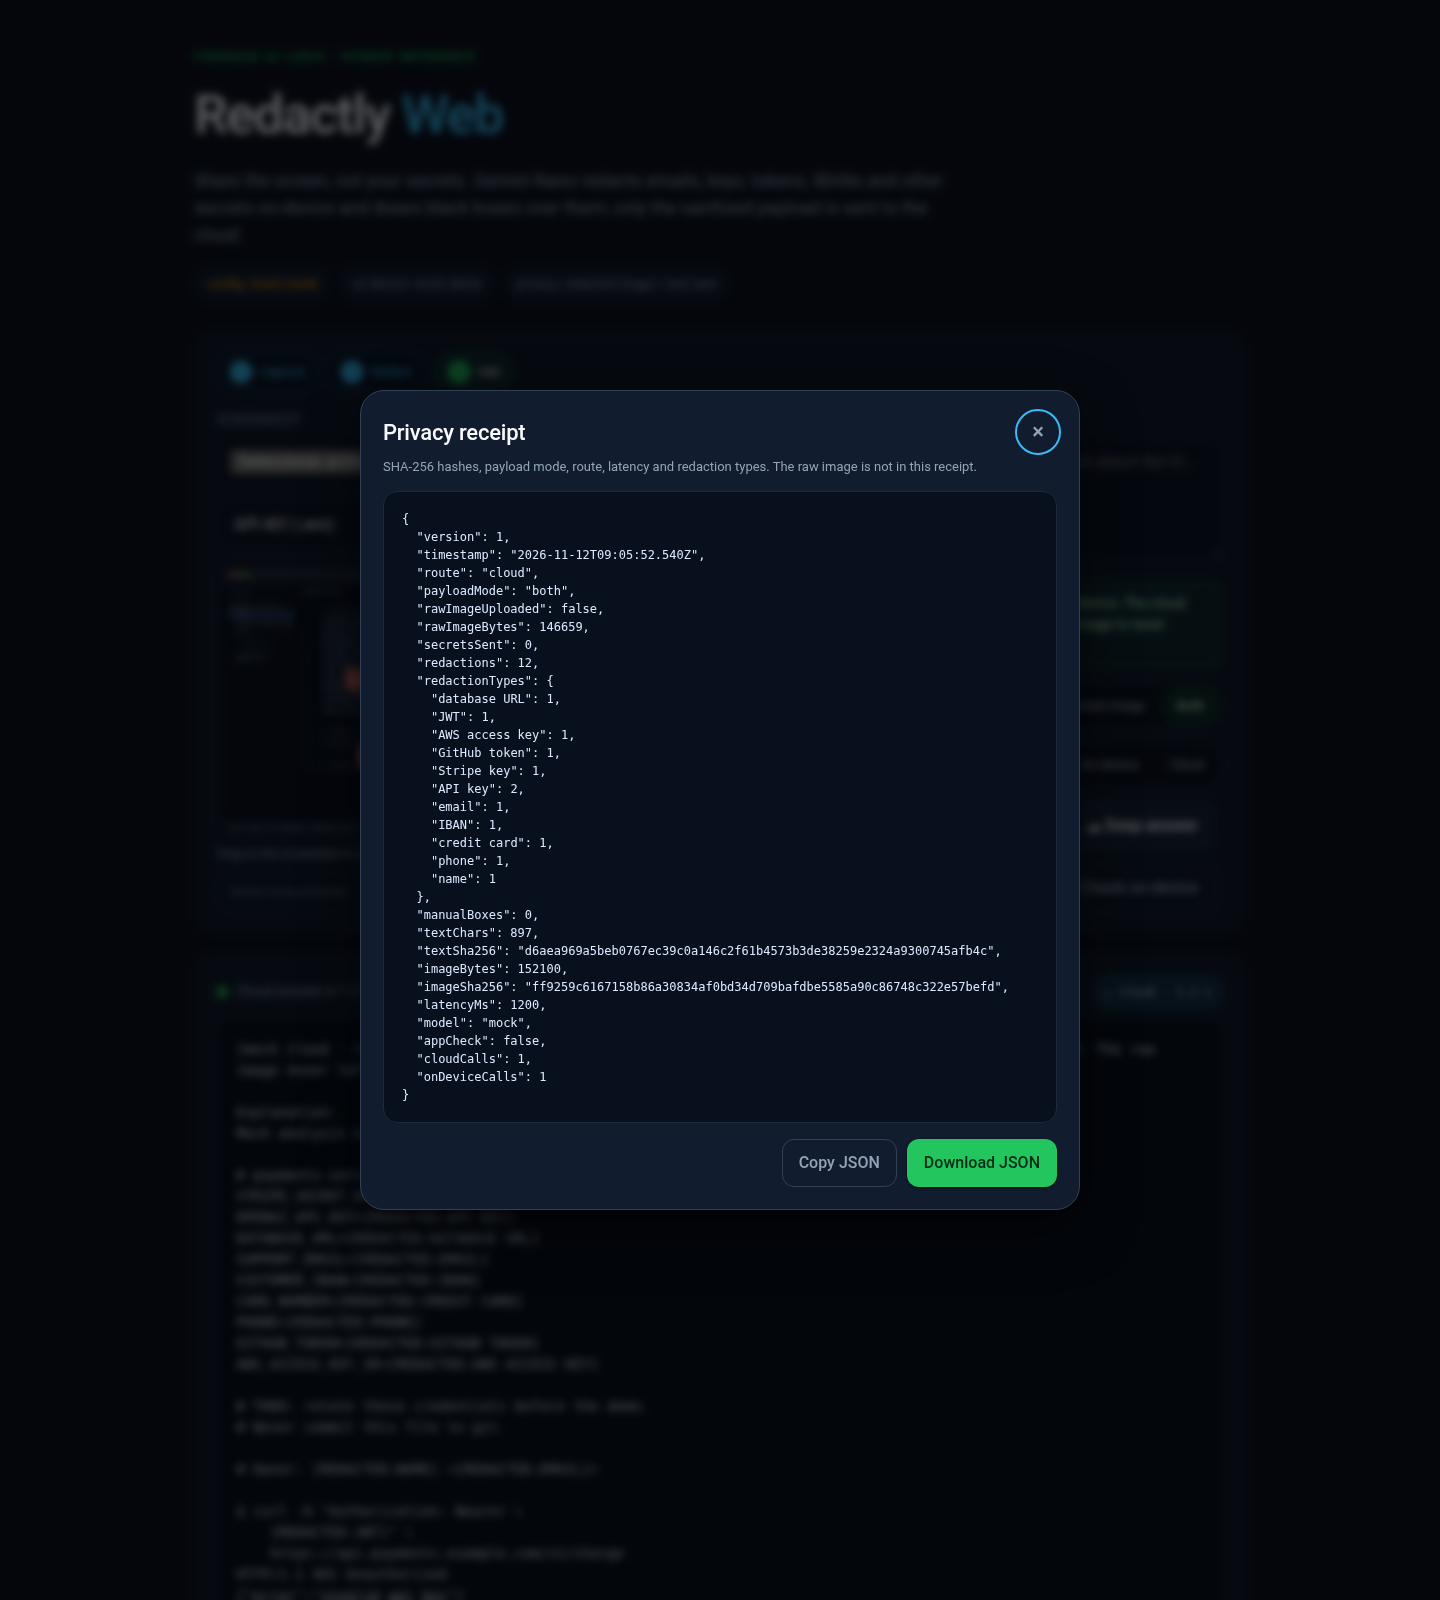
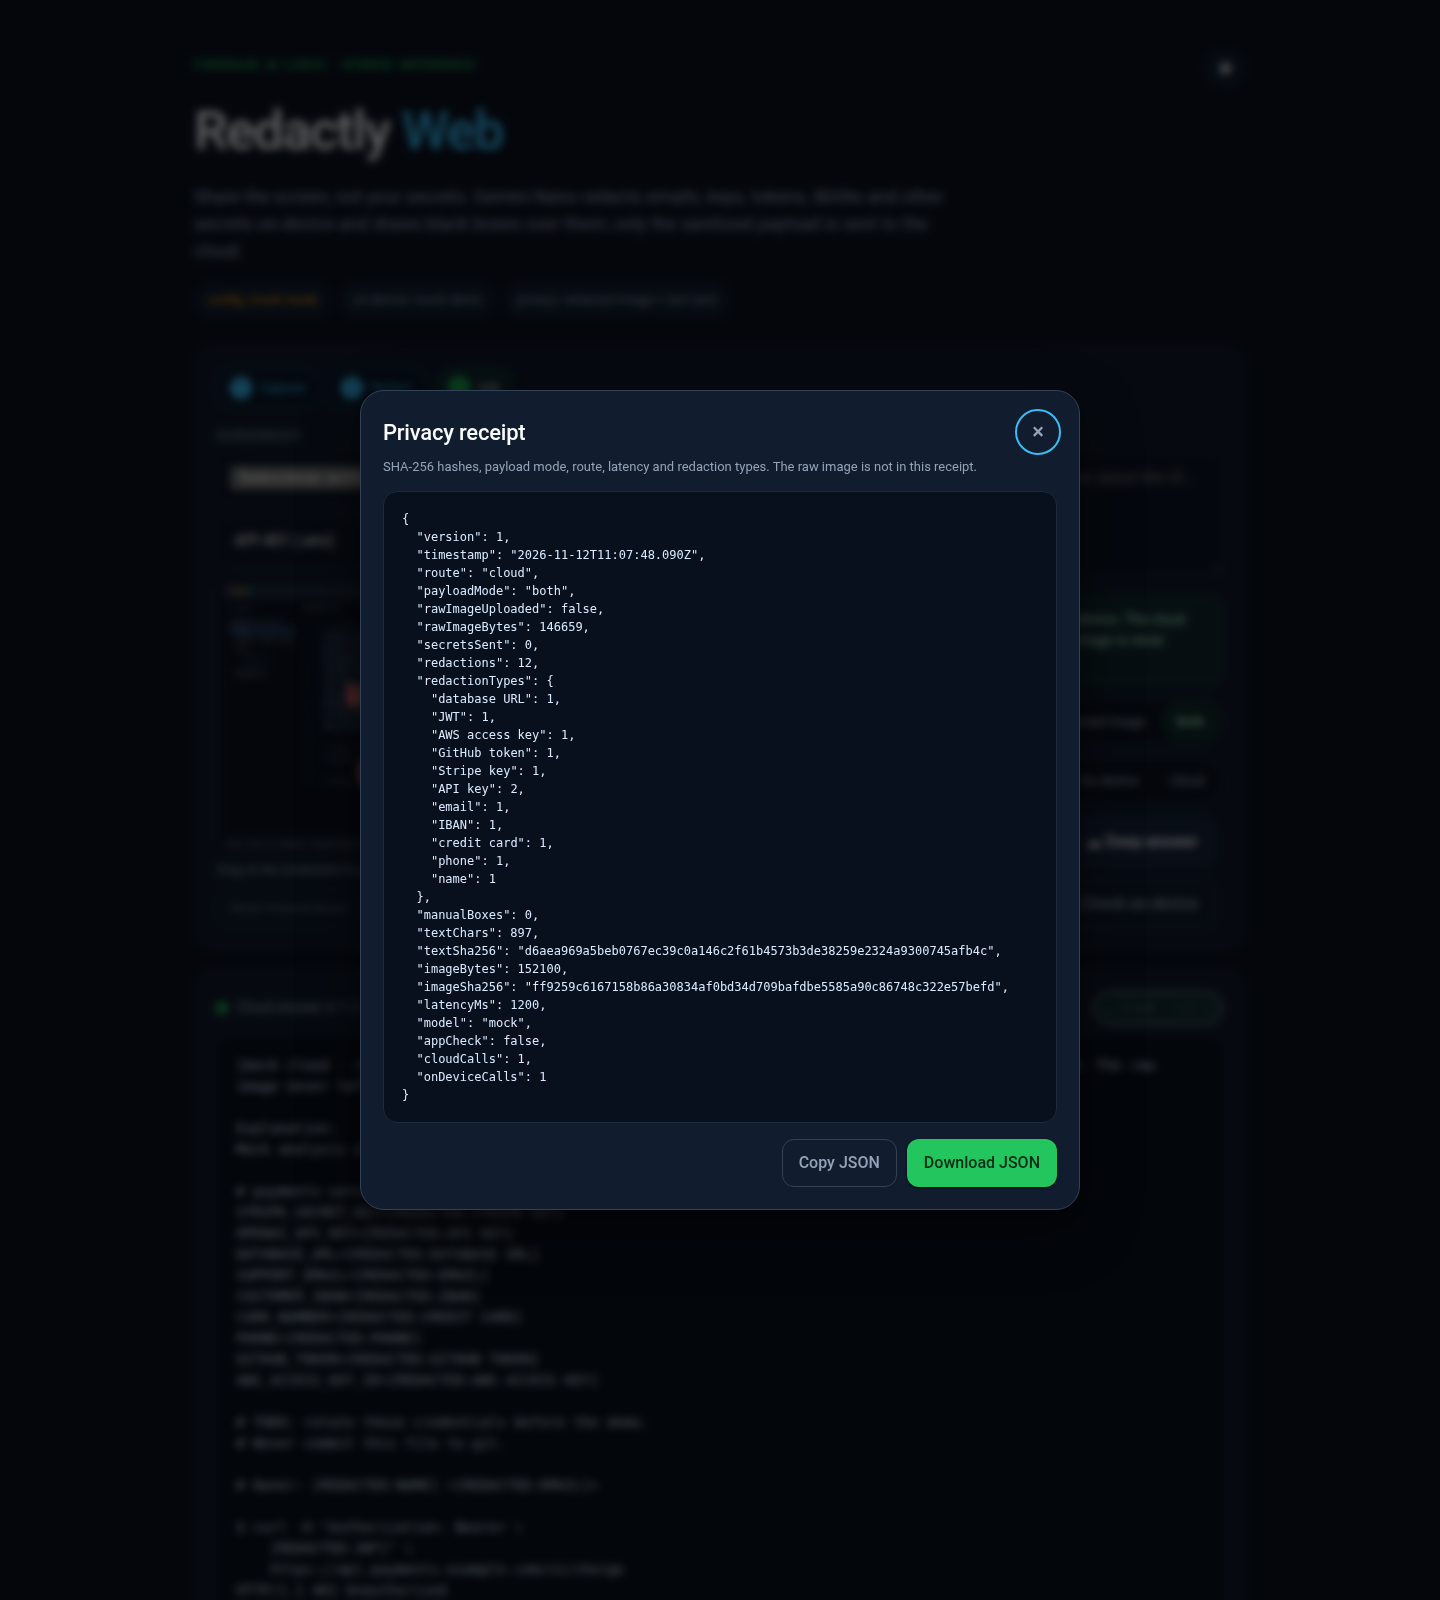
Add light/dark theme toggle and refresh screenshots

diff --git a/styles.css b/styles.css
@@ -155,3 +155,86 @@ input[type=file],textarea,select{transition:border-color var(--motion),box-shado
 input[type=file]:focus,textarea:focus,select:focus{border-color:var(--md-secondary);box-shadow:0 0 0 3px rgba(56,189,248,.16)}
 .compare-range{accent-color:var(--md-primary)}
 @media (prefers-reduced-motion:reduce){*,*::before,*::after{animation-duration:.001ms!important;animation-iteration-count:1!important;transition-duration:.001ms!important}}
+
+/* Theme toggle */
+.hero-top{display:flex;align-items:center;justify-content:space-between;gap:16px}
+.theme-toggle{width:42px;height:42px;font-size:18px;border:1px solid var(--line);background:var(--panel);color:var(--text);box-shadow:var(--elev-1)}
+.theme-toggle:hover{background:var(--md-surface-2);color:var(--text)}
+
+/* Light theme */
+:root[data-theme="light"]{
+  color-scheme:light;
+  --bg:#f6f8fc;
+  --panel:#ffffff;
+  --line:#d7dfeb;
+  --text:#0f172a;
+  --muted:#5b6b82;
+  --green:#15803d;
+  --blue:#0369a1;
+  --amber:#b45309;
+  --red:#b91c1c;
+  --md-primary:#16a34a;
+  --md-on-primary:#ffffff;
+  --md-primary-container:rgba(22,163,74,.12);
+  --md-secondary:#0284c7;
+  --md-surface:#f6f8fc;
+  --md-surface-1:#ffffff;
+  --md-surface-2:#eef3f9;
+  --md-on-surface:#0f172a;
+  --md-on-surface-variant:#5b6b82;
+  --md-outline:#cbd5e1;
+  --md-error:#b91c1c;
+  --md-warning:#b45309;
+  --elev-1:0 1px 2px rgba(15,23,42,.08),0 1px 3px rgba(15,23,42,.06);
+  --elev-2:0 8px 24px rgba(15,23,42,.12),0 2px 6px rgba(15,23,42,.08);
+  --elev-3:0 20px 50px rgba(15,23,42,.18),0 6px 18px rgba(15,23,42,.1);
+}
+:root[data-theme="light"] body{background:radial-gradient(1200px 600px at 20% -10%,#dbeafe 0,var(--bg) 55%)}
+:root[data-theme="light"] .card{background:rgba(255,255,255,.92);border-color:var(--line)}
+:root[data-theme="light"] .card:hover{border-color:#b8c4d6}
+:root[data-theme="light"] .badge{background:#fff;border-color:var(--line);color:var(--muted)}
+:root[data-theme="light"] .badge:hover{background:var(--md-surface-2)}
+:root[data-theme="light"] input[type=file],
+:root[data-theme="light"] textarea,
+:root[data-theme="light"] select{background:#fff;color:var(--text);border-color:var(--line)}
+:root[data-theme="light"] .preview{background:#f1f5f9;border-color:#cbd5e1;color:var(--muted)}
+:root[data-theme="light"] .privacy-note{background:rgba(22,163,74,.08);border-color:rgba(22,163,74,.25);color:#166534}
+:root[data-theme="light"] .findings li,
+:root[data-theme="light"] .ledger li,
+:root[data-theme="light"] .output,
+:root[data-theme="light"] .risk-grid div,
+:root[data-theme="light"] .receipt-row code,
+:root[data-theme="light"] .stepper li,
+:root[data-theme="light"] .route-badge,
+:root[data-theme="light"] .segmented,
+:root[data-theme="light"] .dialog{background:#fff;border-color:var(--line);color:var(--text)}
+:root[data-theme="light"] .findings li,
+:root[data-theme="light"] .ledger li,
+:root[data-theme="light"] .output,
+:root[data-theme="light"] .receipt-row code{color:#1e293b}
+:root[data-theme="light"] .risk-grid div:hover{background:#f8fafc}
+:root[data-theme="light"] .stepper li{background:#fff}
+:root[data-theme="light"] .stepper li span{background:#e2e8f0;color:var(--muted)}
+:root[data-theme="light"] .stepper li.active{background:rgba(22,163,74,.1);border-color:rgba(22,163,74,.45);color:var(--text)}
+:root[data-theme="light"] .stepper li.active span{background:var(--md-primary);color:#fff}
+:root[data-theme="light"] .stepper li.complete{background:rgba(2,132,199,.08);border-color:rgba(2,132,199,.35)}
+:root[data-theme="light"] .stepper li.complete span{background:var(--md-secondary);color:#fff}
+:root[data-theme="light"] .route-badge{background:#fff;color:var(--muted)}
+:root[data-theme="light"] .route-badge.route-on-device{background:rgba(22,163,74,.08);color:#166534;border-color:rgba(22,163,74,.35)}
+:root[data-theme="light"] .route-badge.route-cloud{background:rgba(2,132,199,.08);color:#075985;border-color:rgba(2,132,199,.35)}
+:root[data-theme="light"] .seg-btn{color:var(--muted)}
+:root[data-theme="light"] .seg-btn:hover{background:rgba(15,23,42,.06);color:var(--text)}
+:root[data-theme="light"] .seg-btn.selected{background:rgba(22,163,74,.12);color:#166534;border-color:rgba(22,163,74,.4)}
+:root[data-theme="light"] button:not(.primary):not(.ghost):not(.seg-btn):not(.icon-btn){background:#eef3f9;color:var(--text);border-color:var(--line)}
+:root[data-theme="light"] button:not(.primary):not(.ghost):not(.seg-btn):not(.icon-btn):hover:not(:disabled){background:#e2eaf4}
+:root[data-theme="light"] button.primary{background:var(--md-primary);color:#fff}
+:root[data-theme="light"] button.primary:hover:not(:disabled){background:#15803d}
+:root[data-theme="light"] button.ghost{color:var(--muted)}
+:root[data-theme="light"] button.ghost:hover:not(:disabled){background:rgba(15,23,42,.06);color:var(--text)}
+:root[data-theme="light"] .snackbar{background:#0f172a;color:#f8fafc;border-color:#334155}
+:root[data-theme="light"] .dialog{background:#fff;color:var(--text)}
+:root[data-theme="light"] .dialog::backdrop{background:rgba(15,23,42,.35)}
+:root[data-theme="light"] .compare-inner{background:#f1f5f9;border-color:var(--line)}
+:root[data-theme="light"] .foot{color:#64748b}
+:root[data-theme="light"] .theme-toggle{background:#fff;border-color:var(--line);color:var(--text)}
+:root[data-theme="light"] .theme-toggle:hover{background:var(--md-surface-2)}

diff --git a/app.js b/app.js
@@ -69,6 +69,33 @@ const closeReceiptBtn = $("closeReceiptBtn");
 const downloadReceiptBtn = $("downloadReceiptBtn");
 const payloadGroup = $("payloadGroup");
 const routeModeGroup = $("routeModeGroup");
+const themeToggle = $("themeToggle");
+
+const THEME_KEY = "redactly-theme";
+function applyTheme(theme) {
+  const dark = theme !== "light";
+  document.documentElement.dataset.theme = dark ? "dark" : "light";
+  if (!themeToggle) return;
+  themeToggle.textContent = dark ? "☀" : "☾";
+  themeToggle.setAttribute("aria-label", dark ? "Switch to light theme" : "Switch to dark theme");
+  themeToggle.setAttribute("aria-pressed", String(!dark));
+  themeToggle.title = dark ? "Switch to light theme" : "Switch to dark theme";
+}
+function initialTheme() {
+  try {
+    const stored = localStorage.getItem(THEME_KEY);
+    if (stored === "light" || stored === "dark") return stored;
+  } catch {}
+  return window.matchMedia("(prefers-color-scheme: light)").matches ? "light" : "dark";
+}
+applyTheme(initialTheme());
+if (themeToggle) {
+  themeToggle.addEventListener("click", () => {
+    const next = document.documentElement.dataset.theme === "light" ? "dark" : "light";
+    applyTheme(next);
+    try { localStorage.setItem(THEME_KEY, next); } catch {}
+  });
+}
 
 const cfg = window.FIREBASE_CONFIG || {};
 const configured =
@@ -1230,6 +1257,9 @@ if (!configured) {
   deviceBadge.textContent = "on-device: mock demo";
 }
 const params = new URLSearchParams(location.search);
+if (params.get("theme") === "light" || params.get("theme") === "dark") {
+  applyTheme(params.get("theme"));
+}
 if (["text", "image", "both"].includes(params.get("payload"))) {
   payloadEl.value = params.get("payload");
 }

diff --git a/index.html b/index.html
@@ -1,16 +1,28 @@
 <!doctype html>
-<html lang="en">
+<html lang="en" data-theme="dark">
 <head>
   <meta charset="utf-8">
   <meta name="viewport" content="width=device-width, initial-scale=1">
   <meta name="description" content="Privacy-first screenshot assistant: Gemini Nano redacts secrets on-device; only a sanitized payload goes to the cloud.">
   <title>Redactly — Privacy-first hybrid inference</title>
+  <script>
+    try {
+      const stored = localStorage.getItem("redactly-theme");
+      const theme = stored === "light" || stored === "dark"
+        ? stored
+        : (window.matchMedia("(prefers-color-scheme: light)").matches ? "light" : "dark");
+      document.documentElement.dataset.theme = theme;
+    } catch {}
+  </script>
   <link rel="stylesheet" href="styles.css">
 </head>
 <body>
   <main class="wrap">
     <header class="hero">
-      <p class="eyebrow">FIREBASE AI LOGIC · HYBRID INFERENCE</p>
+      <div class="hero-top">
+        <p class="eyebrow">FIREBASE AI LOGIC · HYBRID INFERENCE</p>
+        <button id="themeToggle" class="icon-btn theme-toggle" type="button" aria-label="Switch to light theme" aria-pressed="false" title="Switch to light theme">☀</button>
+      </div>
       <h1>Redactly <span>Web</span></h1>
       <p class="sub">Share the screen, not your secrets. Gemini Nano redacts emails, keys, tokens, IBANs and other secrets on-device and draws black boxes over them; only the sanitized payload is sent to the cloud.</p>
       <div class="badges">

diff --git a/README.md b/README.md
@@ -10,7 +10,9 @@ emails, API keys, tokens, IBANs, card numbers and other secrets, and draws black
 boxes over them. The cloud model receives only the sanitized payload the user
 explicitly chooses.
 
-![Demo](screenshot.png)
+![Redactly dark theme](screenshot.png)
+
+![Redactly light theme](screenshot-light.png)
 
 ## What it does
 
@@ -22,6 +24,7 @@ explicitly chooses.
 - SHA-256 privacy receipt, risk card and privacy ledger.
 - Three synthetic scenarios: API 401, support ticket and bank statement.
 - Mock mode for offline demos and Node tests for the pure logic.
+- Light/dark theme toggle in the header, persisted in `localStorage`.
 
 ## Hosted demo
 
